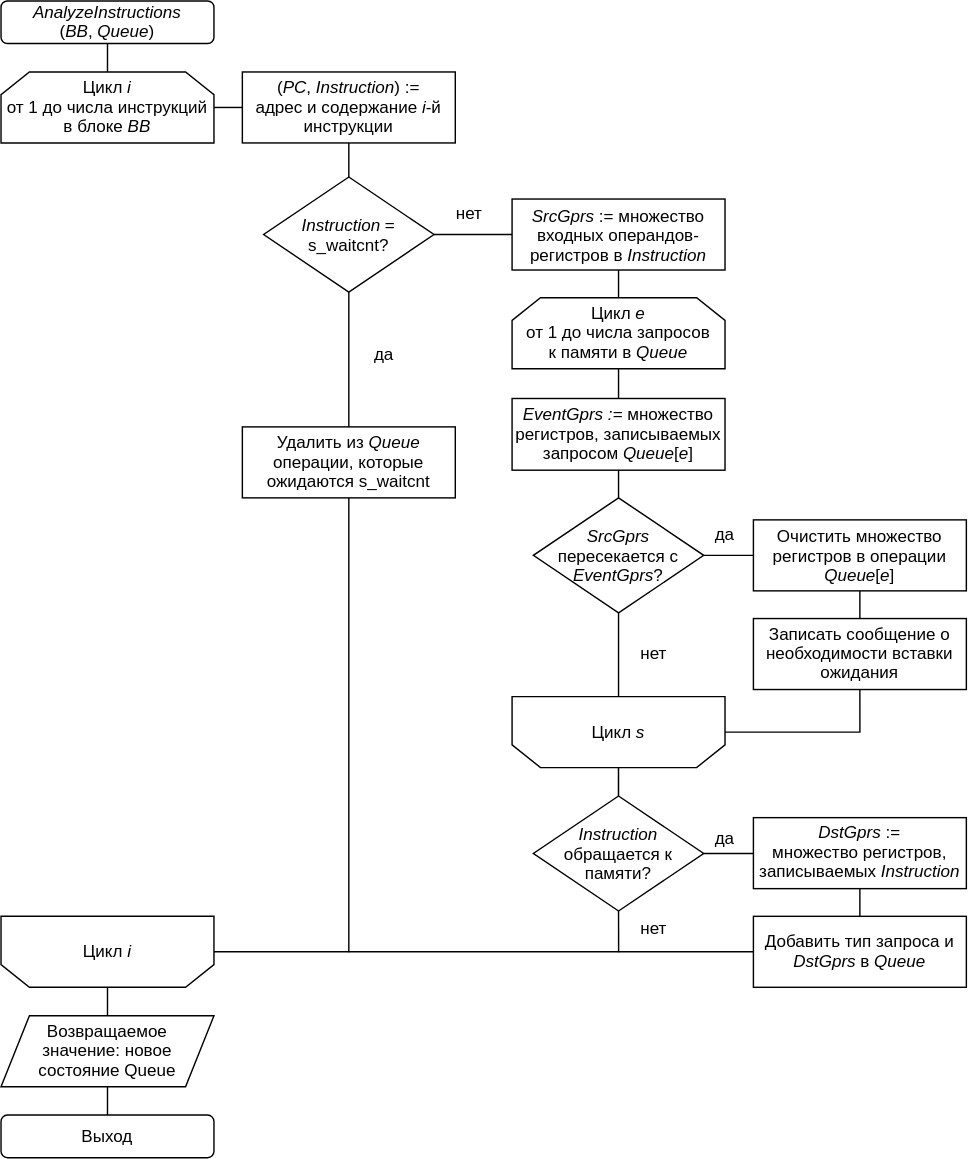
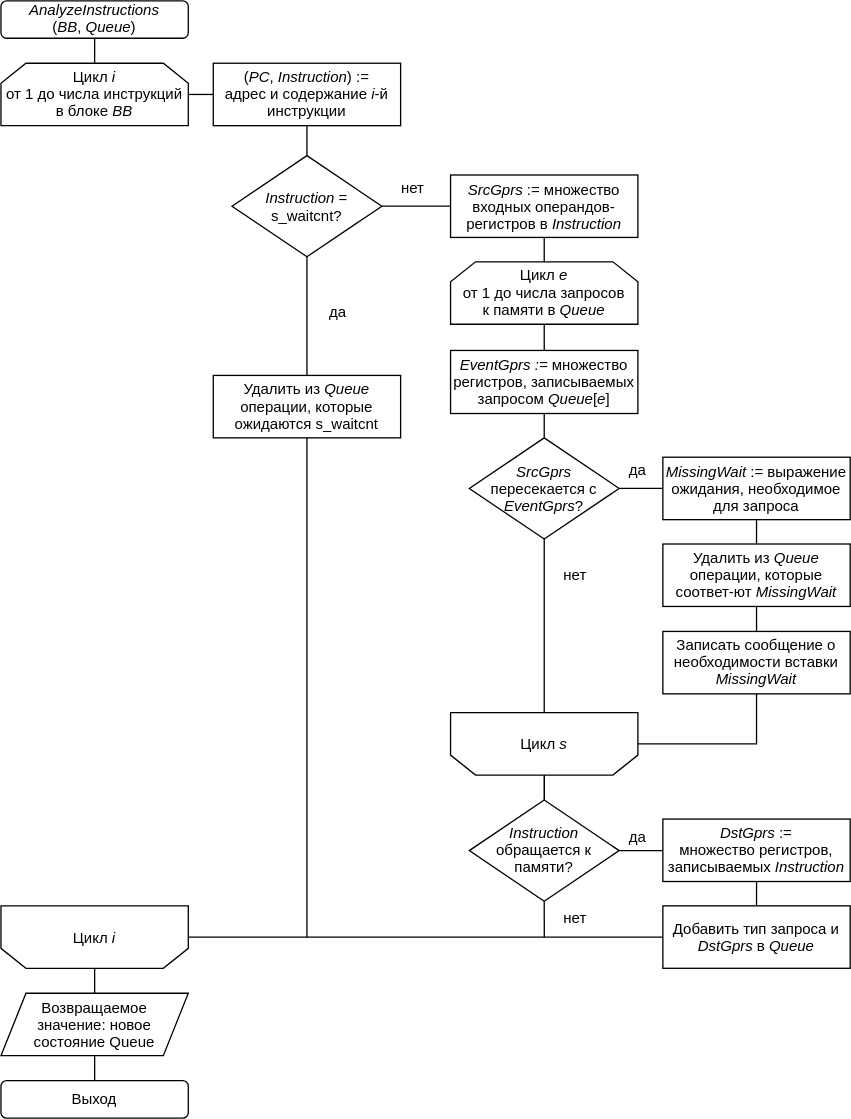
analysis: fix unbounded queue growth in s_waitcnt analysis

diff --git a/thesis.tex b/thesis.tex
@@ -657,13 +657,6 @@ $\left[\var{Leaders}[i], \var{Leaders}[i+1]\right)$.\\
 для которых был совершен обход преемников (\textit{Visited[BB]}). Если текущее выходное
 состояние уже было <<посещено>>, то обход преемников не выполняется.
 
-Однако в случае, когда базовые блоки образуют цикл, содержащий обращения к памяти без ожиданий
-готовности данных, рост очереди обращений не ограничен. Чтобы гарантировать конечность
-алгоритма, перед добавлением текущего выходного состояния в \textit{Visited[BB]} из него
-удаляются дубликаты — обращения, исходящие из одного и того же адреса в программе. Таким образом,
-множество выходных состояний монотонно увеличивается и ограничено числом обращений к памяти
-во всей программе.
-
 \begin{figure}[H]
 \centering
 \includegraphics[width=0.8\textwidth]{diagrams/alg-waitcnt}
@@ -691,10 +684,11 @@ $\left[\var{Leaders}[i], \var{Leaders}[i+1]\right)$.\\
   запросы согласно выражению ожидания (см. раздел~\ref{section:gcn-waitcnt}).
 \item Инструкции, содержащие регистровые операнды: для каждого из незавершенных запросов
   в очереди проверяется, есть ли среди регистровых операндов в инструкции те,
-  которые записываются данным запросом. При обнаружении нарушения информация о нем
-  сохраняется для дальнейшего вывода пользователю, а в запросе очищается множество
-  регистров. Таким образом, на один запрос в очереди созадется не больше одного сообщения
-  о нарушении, при этом состояние очереди (число запросов) остается правильным.
+  которые записываются данным запросом. При обнаружении обращения к результату незавершенного
+  запроса для него вычисляется выражение ожидания, которое сохраняется для
+  дальнейшего вывода пользователю и применяется к очереди запросов. Таким образом,
+  незавершенный запрос исключается из очереди, что предотвращает ее бесконечный
+  рост и гарантирует конечность алгоритма.
 \item Инструкции, выполняющие обращение к памяти: в очередь помещается информация о
   типе обращения, множестве записываемых регистров, адресе текущей инструкции.
 \end{ul}
